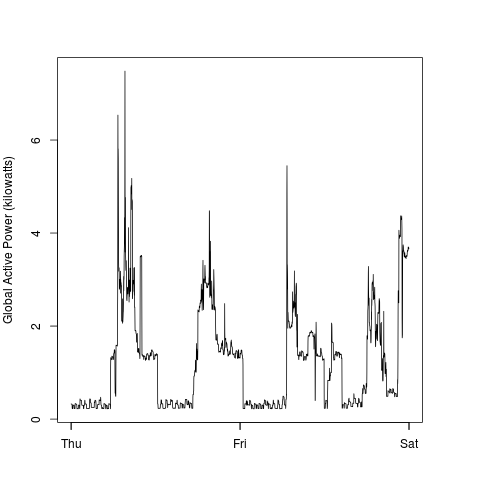
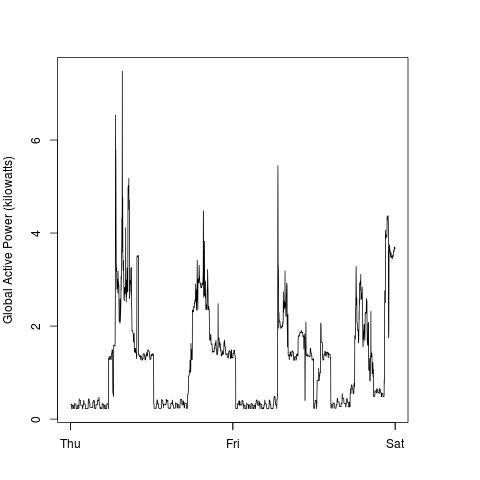
Adjust margins

diff --git a/README.md b/README.md
@@ -86,7 +86,7 @@ include the code that creates the PNG file.
 
 When you are finished with the assignment, push your git repository to
 GitHub so that the GitHub version of your repository is up to
-date. There should be four PNG files and four R code files.
+date. There should be 4 PNG files and four R code files.
 
 
 The four plots that you will need to construct are shown below. 
